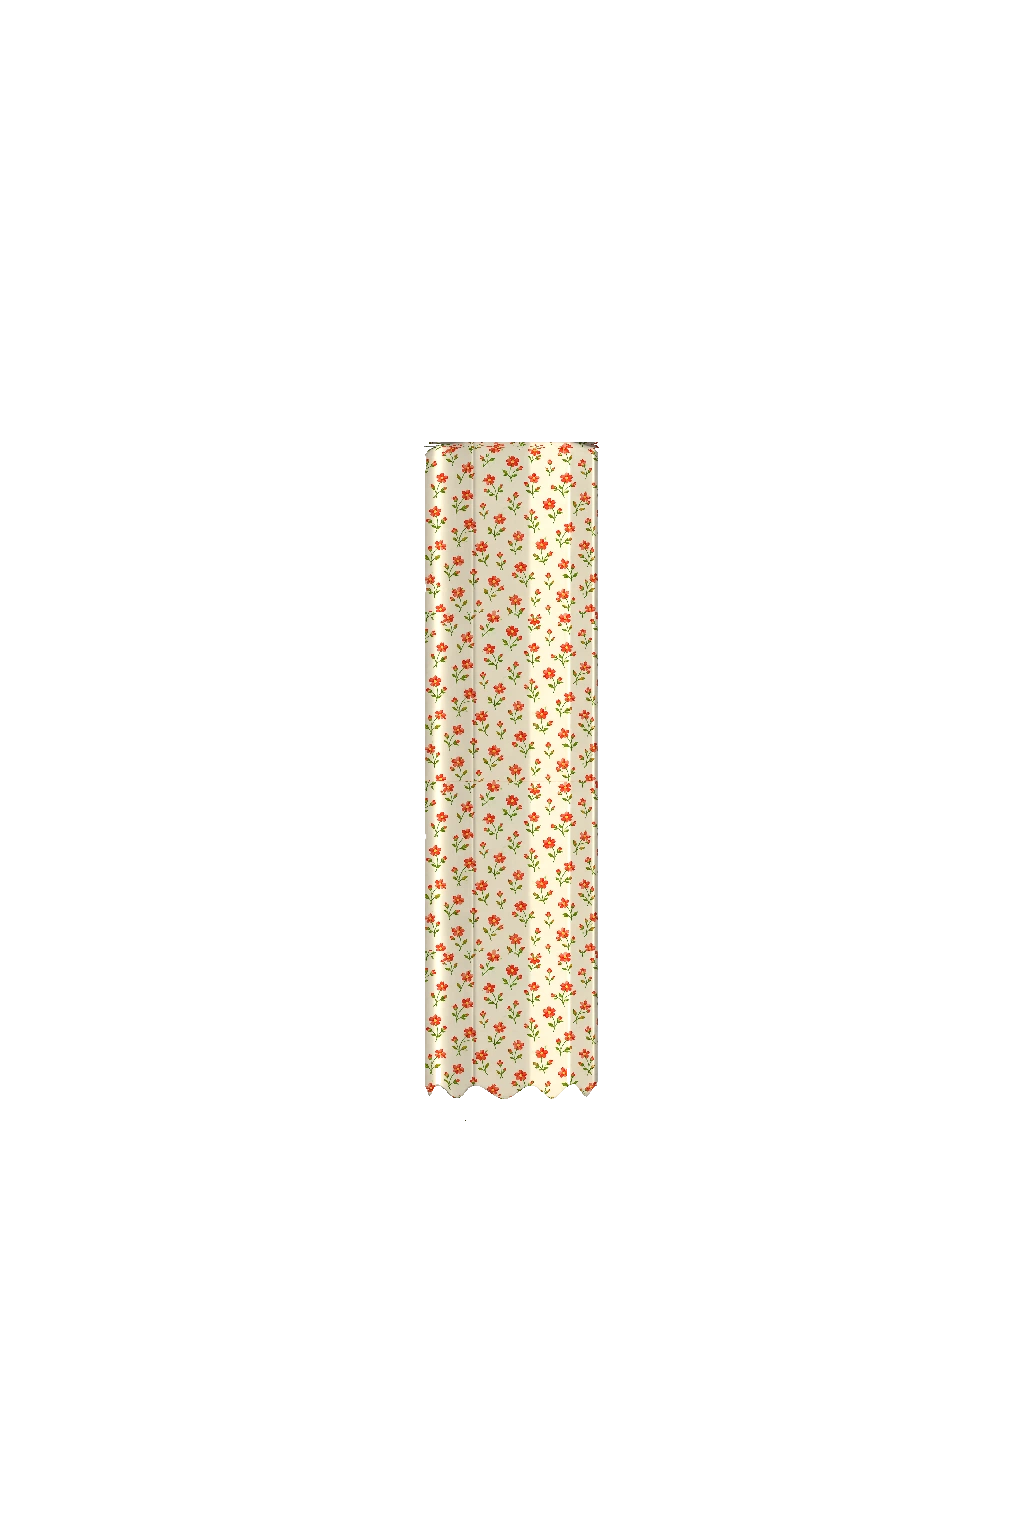
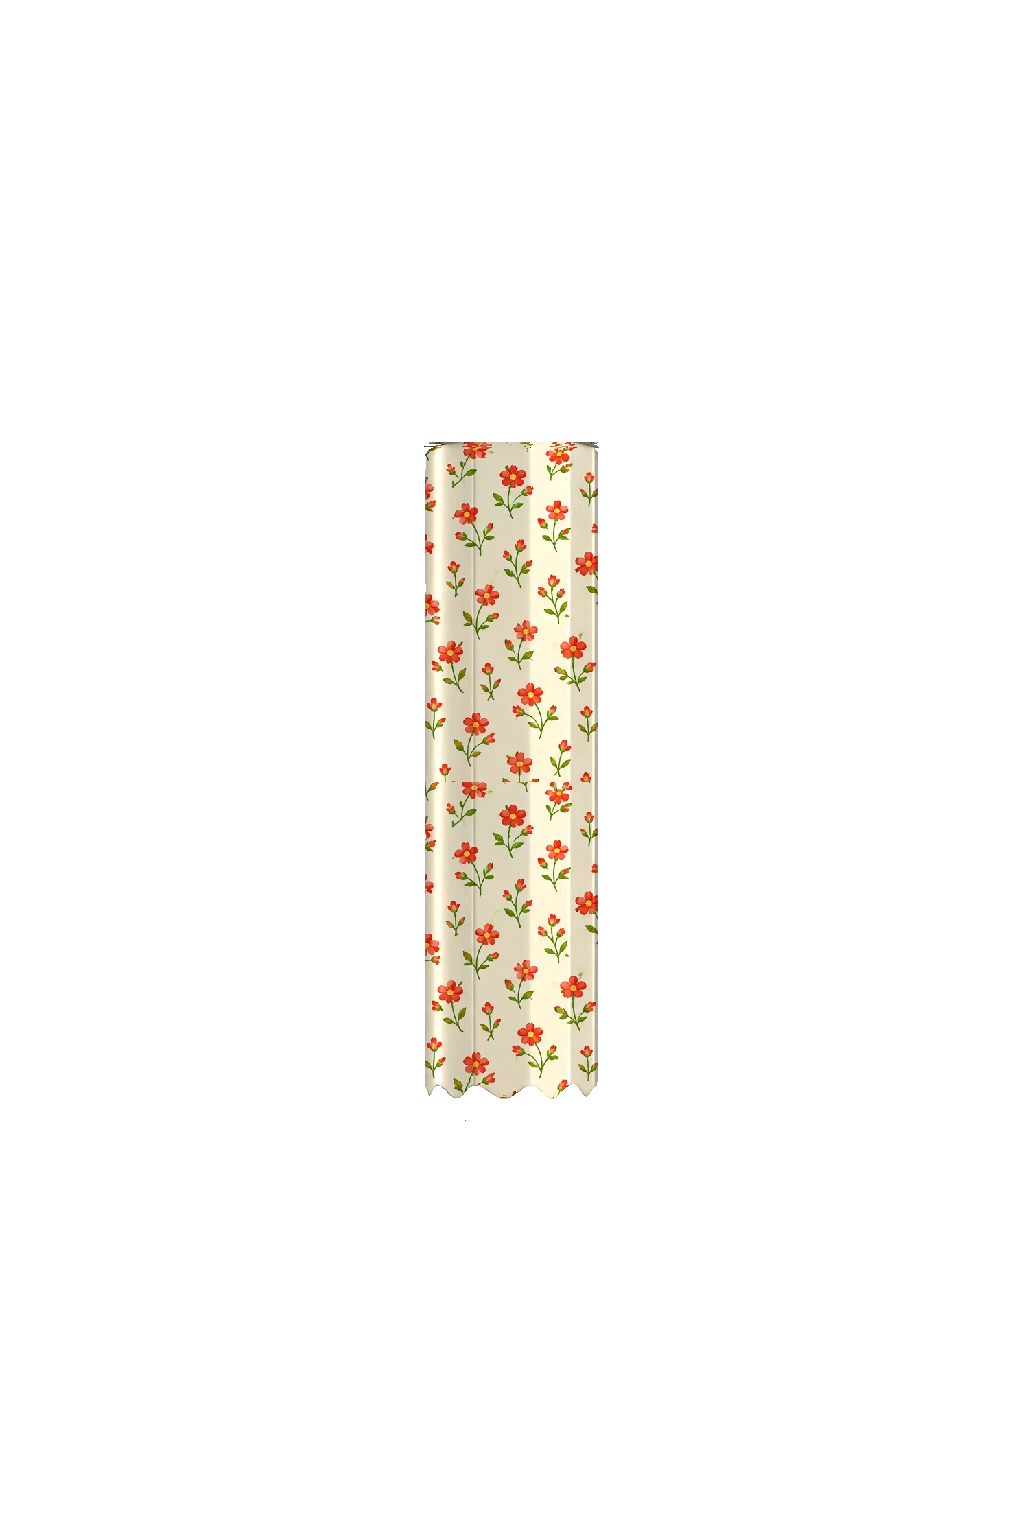
Correct body finish pattern scale and solid lacquer shading

Changed region(s): [[0.4062, 0.2812, 0.5938, 0.7188]]

diff --git a/app/admin/base-poses.jsx b/app/admin/base-poses.jsx
@@ -45,7 +45,7 @@ export default function BasePoses() {
               <div className="pose-layer-stage">
                 <img src={skin === "yellow" ? `/assets/base-poses/${pose.id}.webp?v=clean-edges7` : `/assets/pencil-skins/${pose.id}-${skin}.webp?v=clean-edges7`} alt={`${STANDARD_SKINS.find(item => item.id === skin).name} pencil — ${pose.name}`} />
               {arms && <img className="pose-dress-layer" src={`/assets/arm-traits/${pose.id}-wave-${finish === "classic-red" ? "red" : finish === "polka-dot-pink" ? "pink" : finish === "sky-blue-striped" ? "blue" : finish === "stealth-matte-black" ? "black" : finish === "neon-acid" ? "pepe-green" : skin}.webp?v=clean-edges7`} alt="Matching arms with white gloves"/>}
-                {finish && <img className="pose-dress-layer" src={`/assets/body-finishes/${pose.id}/${finish}.webp?v=1`} alt={finishes.find(([id]) => id === finish)[1] + " body finish"}/>}
+                {finish && <img className="pose-dress-layer" src={`/assets/body-finishes/${pose.id}/${finish}.webp?v=2`} alt={finishes.find(([id]) => id === finish)[1] + " body finish"}/>}
               </div>
               <strong>{pose.name} · {finish ? finishes.find(([id]) => id === finish)[1] : STANDARD_SKINS.find(item => item.id === skin).name}</strong>
               </div><div className="customizer-controls"><h2>Make it yours.</h2><fieldset className="trait-section" style={{ width: "100%", marginTop: 20 }}>

diff --git a/scripts/build-body-finishes.py b/scripts/build-body-finishes.py
@@ -21,15 +21,21 @@ for pose in ['tilt-left','tilt-right','straight']:
  yy,xx=np.where(yellow);bottom=int(yy.max())
  for i,key in enumerate(ids):
   tile=sheet.crop((round((i%3)*sheet.width/3),round((i//3)*sheet.height/2),round((i%3+1)*sheet.width/3),round((i//3+1)*sheet.height/2)))
+  tile=tile.crop((8,8,tile.width-8,tile.height-8))
   tex=np.array(tile).astype(float);out=np.zeros_like(a)
+  widths=[np.count_nonzero(yellow[y]) for y in run]
+  barrel_width=float(np.median(widths))
+  solid={'classic-red':(238,22,28),'stealth-matte-black':(30,31,35),'neon-acid':(177,244,12)}
   for y in range(top,bottom+1):
    xs=np.where(yellow[y])[0]
    if not len(xs):continue
    left,right=int(xs.min()),int(xs.max());x=np.arange(left,right+1) if y<int(run[-1])-20 else xs
-   u=(x-left)/max(1,right-left);v=(y-top)/max(1,bottom-top)
+   centre=(left+right)/2
+   u=np.clip(.5+(x-centre)/barrel_width*.48,0,1);v=(y-top)/barrel_width*.48
    # One print across the barrel, four repeats along its length.
-   tx=np.minimum((u*(tile.width-1)).astype(int),tile.width-1);ty=int(v*4*(tile.height-1))%(tile.height-1)
-   colour=tex[ty,tx];shade=np.clip(g[y,x]/220,.45,1.15)
+   tx=np.minimum((u*(tile.width-1)).astype(int),tile.width-1);ty=int(v*(tile.height-1))%(tile.height-1)
+   colour=np.broadcast_to(solid[key],(len(x),3)) if key in solid else tex[ty,tx]
+   shade=np.clip(g[y,x]/220,.45,1.15)
    if key=='stealth-matte-black':shade=.75+(shade-.75)*.5
    out[y,x,:3]=np.clip(colour*shade[:,None],0,255).astype('uint8');out[y,x,3]=a[y,x,3]
   layer=Image.fromarray(out);dest=root/f'public/assets/body-finishes/{pose}';dest.mkdir(parents=True,exist_ok=True);layer.save(dest/f'{key}.webp',quality=94)
